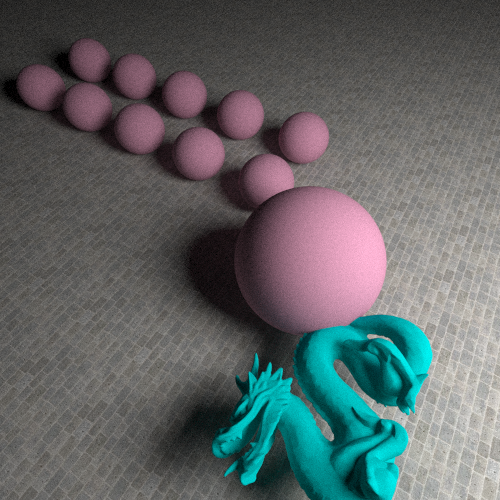
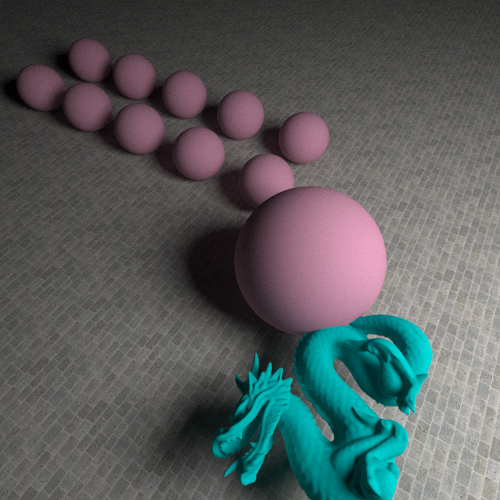
add refl

diff --git a/src/space.cc b/src/space.cc
@@ -1,5 +1,5 @@
 // File: space.cc
-// Date: Sun Jun 23 01:29:05 2013 +0800
+// Date: Sun Jun 23 10:53:07 2013 +0800
 // Author: Yuxin Wu <ppwwyyxxc@gmail.com>
 
 #include <limits>
@@ -118,9 +118,9 @@ Color Space::trace(const Ray& ray, real_t dist, int depth) const {
 	m_assert(fabs(ray.dir.sqr() - 1) < EPS);
 	Color now_refl = Color::BLACK;
 
-	// do reflection if ambient is small
+	// do reflection if specular > 0
 	// inner surface don't reflect
-	if (surf->ambient < 1 - EPS && !(first_trace->contain())) {
+	if (surf->specular > 0 && !(first_trace->contain())) {
 		// reflected ray : go back a little, same density
 		Ray new_ray(inter_point - ray.dir * EPS, -norm.reflection(ray.dir), ray.density);
 		m_assert(fabs((-norm.reflection(ray.dir)).sqr() - 1) < EPS);
@@ -131,14 +131,14 @@ Color Space::trace(const Ray& ray, real_t dist, int depth) const {
 		new_ray.debug = ray.debug;
 		Color refl = trace(new_ray, dist, depth + 1);
 		now_refl = (refl + refl * surf->diffuse * REFL_DIFFUSE_FACTOR) *
-			(REFL_DECAY * (1 - surf->ambient) * surf->shininess * lmn);
+			(REFL_DECAY * surf->specular * surf->shininess * lmn);
 	}
 
 
 	// transmission
 	Color now_transm = Color::BLACK;
 	if (surf->transparency > EPS) {
-		Vec tr_dir = norm.transmission(ray.dir, forward_density / ray.density);
+		Vec tr_dir = norm.transmission(ray.dir, ray.density / forward_density);
 		if (isnormal(tr_dir.x)) { // have transmission
 			// transmission ray : go forward a little
 			Ray new_ray(inter_point + ray.dir * EPS, tr_dir, forward_density);
@@ -189,10 +189,45 @@ Color Space::global_trace(const Ray& ray, int depth) const {
 		v = norm.cross(u);
 	// generate random reflected ray by sampling unit hemisphere
 	Vec d = ((u * cos(r1)) * r2s + v * sin(r1) * r2s + norm * (sqrt(1 - r2))).get_normalized();
+	Color now_diffuse = diffu * global_trace(Ray(inter_point - ray.dir * EPS, d), depth + 1);
 
-	// TODO explicit lighting:
+	// reflection
+	Color now_refl = Color::BLACK;
+	if (surf->specular > 0 && !(first_trace->contain())) {
+		// reflected ray : go back a little, same density
+		Ray new_ray(inter_point - ray.dir * EPS, -norm.reflection(ray.dir), ray.density);
+		m_assert(fabs((-norm.reflection(ray.dir)).sqr() - 1) < EPS);
 
-	return surf->emission + diffu * global_trace(Ray(inter_point - ray.dir * EPS, d), depth + 1);
+//		real_t lmn = fabs(new_ray.dir.dot(norm));
+		new_ray.debug = ray.debug;
+		Color refl = global_trace(new_ray, depth + 1);
+		now_refl = 	surf->diffuse * refl * surf->specular;
+	}
+
+	 // transmission
+	 /*
+	  *Color now_transm = Color::BLACK;
+	  *if (surf->transparency > EPS) {
+	  *    Vec tr_dir = norm.transmission(ray.dir, forward_density / ray.density);
+	  *    if (isnormal(tr_dir.x)) {  //have transmission
+	  *         //transmission ray : go forward a little
+	  *        Ray new_ray(inter_point + ray.dir * EPS, tr_dir, forward_density);
+	  *        new_ray.debug = ray.debug;
+	  *        Color transm = trace(new_ray, depth + 1);
+	  *        now_transm = (transm + transm * surf->diffuse * TRANSM_DIFFUSE_FACTOR) *
+	  *            surf->transparency;
+	  *    } else {	// total reflection
+	  *        Ray new_ray(inter_point - ray.dir * EPS, -norm.reflection(ray.dir), ray.density);
+	  *        new_ray.debug = ray.debug;
+	  *        Color refl = global_trace(new_ray, depth + 1);
+	  *        now_transm = surf->diffuse * refl * surf->specular;
+	  *    }
+	  *}
+	  */
+
+	 // TODO explicit lighting:
+
+	 return surf->emission + now_diffuse + now_refl;
 
 }
 
@@ -208,7 +243,7 @@ shared_ptr<Trace> Space::find_first(const Ray& ray, bool include_light) const {
 		}
 	}
 
-	if (include_light) {		// look for light also
+	if (include_light) {		// also look for light
 		for (auto &l : lights) {
 			auto tmp = l->get_trace(ray, min == numeric_limits<real_t>::max() ? -1 : min);
 			if (tmp) {

diff --git a/report/diary.tex b/report/diary.tex
@@ -1,5 +1,5 @@
 % File: diary.tex
-% Date: Sun Jun 23 02:24:41 2013 +0800
+% Date: Sun Jun 23 09:08:21 2013 +0800
 % Author: Yuxin Wu <ppwwyyxxc@gmail.com>
 \section{过程记录}
 本项目的开发记录可以通过git查看. 项目托管在github\footnote{\url{https://github.com/ppwwyyxx/Ray-Tracing-Engine}}
@@ -212,7 +212,7 @@
     \end{figure}
 
     \item 实现了一个简易的全局光照模型,首先按照均匀分布支持了漫反射,渲染效果如下.
-      可以看到颜色变化及阴影都更加自然. 此图采样1600次,渲染耗时16分钟.
+      可以看到颜色变化及阴影都更加自然.
       \begin{figure}[H]
         \centering
         \includegraphics[scale=0.4]{img/gllu_first.png}

diff --git a/src/main.cc b/src/main.cc
@@ -1,5 +1,5 @@
 // File: main.cc
-// Date: Sun Jun 23 02:05:13 2013 +0800
+// Date: Sun Jun 23 09:55:24 2013 +0800
 // Author: Yuxin Wu <ppwwyyxxc@gmail.com>
 #include "viewer.hh"
 #include "space.hh"
@@ -148,7 +148,7 @@ void global_illu() {
 	Mesh mesh(fname, Vec(-3, -2, 2), 5);
 	mesh.smooth = true;
 	mesh.set_texture(make_shared<HomoTexture>(HomoTexture::CYAN));
-	mesh.simplify(0.2);
+	mesh.simplify(0.5);
 	mesh.finish();
 	s.add_obj(make_shared<Mesh>(mesh));
 
@@ -156,7 +156,7 @@ void global_illu() {
 
 	s.finish();
 	View v(s, Vec(-5.6, -1.6, 10.1), Vec(-0.8, 1.35, 2.5), 13, Geometry(w, h));
-	v.use_global = true;
+	//v.use_global = true;
 	CVViewer viewer(v);
 	viewer.view();
 

diff --git a/src/static_const.cc b/src/static_const.cc
@@ -1,5 +1,5 @@
 // File: static_const.cc
-// Date: Sun Jun 23 02:04:27 2013 +0800
+// Date: Sun Jun 23 10:47:38 2013 +0800
 // Author: Yuxin Wu <ppwwyyxxc@gmail.com>
 
 #include "color.hh"
@@ -25,7 +25,7 @@ const Surface
 	Surface::BLACK_REFL(0, 20, 1, Color::BLACK, DEFAULT_SPECULAR),
 	Surface::BLUE_REFL(1, 50, 0.5, Color::BLUE, DEFAULT_SPECULAR),
 	Surface::CYAN_REFL(0, 20, 0.2, (Color)Color::CYAN * 0.6, DEFAULT_SPECULAR),
-	Surface::GOOD(0, 40, 0.5, Color(0.75, 0.35, 0.5), DEFAULT_SPECULAR);
+	Surface::GOOD(1, 40, 0.5, Color(0.75, 0.35, 0.5), DEFAULT_SPECULAR);
 
 
 const GridTexture
